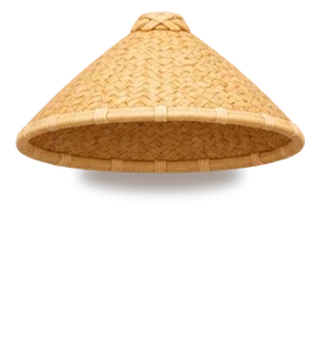
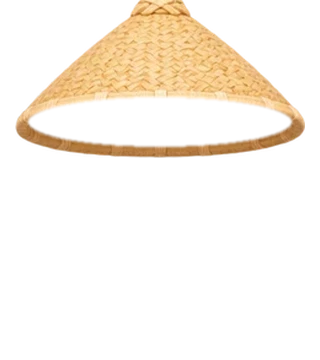
삿갓: 머리가 삿갓 속에 들어가게(속은 머리 뒤, 챙 앞은 머리 앞), 한복 소매 끝에 삐져나오던 손 제거
Claude-Session: https://claude.ai/code/session_015t7mweLLBzEFYGgsGmysr6

Changed region(s): [[0.0312, 0.0, 0.9688, 0.55]]

diff --git a/js/fluffy.js b/js/fluffy.js
@@ -36,6 +36,7 @@ export function capyBody(color, face, back, own) {
 }
 // 옷: 몸에 입힌 채로 그린 그림(같은 틀)을 그대로 겹친다. 신발은 발처럼 좌우로 잘라 걸을 때 함께 움직인다
 const HAT_UP = -10;
+const HAT_IN = new Set(['h-hd-5']); // 머리가 속에 들어가는 모자: 모자 속(안쪽)은 머리 뒤에 따로 그린다
 // 한복 모자는 머리 위에 얹힌 듯 작아서, 챙 아래쪽을 기준으로 키워 머리가 모자 안에 들어가게 한다
 const HDHAT_Y = Y + 190 * S, HDHAT = { 'h-hd-1': 1.0, 'h-hd-2': 1.08, 'h-hd-6': 1.08, 'h-hd-5': 1.05, 'h-hd-7': 1.05, 'h-hd-8': 1.1, 'h-hd-18': 1, 'h-hd-19': 1.05, 'h-hd-20': 1, 'h-hd-22': 1.1, 'h-hd-23': 1.1, 'h-hd-25': 1.05, 'h-hd-27': 1.05, 'h-hd-29': 1.05, 'h-hd-31': 1.05 }; /* 챙이 넓거나 높은 모자는 덜 키운다 */ // 모자는 마네킹보다 머리가 낮게 그려져 있어 조금 올려 씌운다(눈을 가리지 않게)
 const wimg = (id, own, back) => img((back ? 'wb/' : 'w/') + id + '.webp' + (id === 'h-hd-1' ? '?v=3' : ''), own);
@@ -51,14 +52,14 @@ const PAW_K = 0.5, PAW_W = 46 * S, PAW_H = 25 * S, PAW_Y = Y + 331 * S;
 // 손 하나(발 그림을 줄여 쓴다): 물건을 들 때처럼 손만 따로 그릴 때
 export function capyPaw(o, cx, cy, right, k = PAW_K) { const f = capyFile(o.color, o.face, false), px = X + (right ? 158 : 116) * S;
   return `<g transform="translate(${(cx - PAW_W * k / 2).toFixed(2)} ${(cy - PAW_H * k / 2).toFixed(2)}) scale(${k}) translate(${(-px).toFixed(2)} ${(-PAW_Y).toFixed(2)})">${crop(f, o.own, px, PAW_Y, PAW_W, PAW_H)}</g>`; }
-function hands(top, o, own, back) { const c = top && CUFF[top.includes('-hd-') ? 'jeogori' : top.slice(2, top.lastIndexOf('-'))]; /* 핫똑 한복 저고리도 소매 끝에 손을 그린다 */ if (!c) return ''; const f = capyFile(o.color, o.face, back);
+function hands(top, o, own, back) { const c = top && !top.includes('-hd-') && CUFF[top.slice(2, top.lastIndexOf('-'))]; /* 핫똑 한복은 소매 모양이 제각각이라 손을 따로 그리지 않는다(삐져나와 보임) */ if (!c) return ''; const f = capyFile(o.color, o.face, back);
   return [[X + 116 * S, c[0]], [X + 158 * S, c[1]]].map(([px, cx]) => `<g transform="translate(${(cx - PAW_W * PAW_K / 2).toFixed(2)} ${(c[2] - PAW_H * PAW_K * 0.3).toFixed(2)}) scale(${PAW_K}) translate(${(-px).toFixed(2)} ${(-PAW_Y).toFixed(2)})">${crop(f, own, px, PAW_Y, PAW_W, PAW_H)}</g>`).join(''); }
 export function capyWear(o, own, back) {
   const ok = (id, ch) => (typeof id === 'string' && id[0] === ch ? id : '');
   const top = ok(o.top, 't'), bot = ok(o.bottom, 'b'), hat = ok(o.hat, 'h'), sh = ok(o.shoe, 's'), over = bot.startsWith('b-overalls');
   const f = sh ? (back ? 'wb/' : 'w/') + sh + '.webp' : '';
   return { shoe: f ? `<g class="cf-l">${fitG(FIT.s, crop(f, own, -20, FOOT - 14, 80, 54))}</g><g class="cf-r">${fitG(FIT.s, crop(f, own, 60, FOOT - 14, 80, 54))}</g>` : '',
-    lower: bot && !over ? worn(bot, own, back) : '', upper: hands(top, o, own, back) + (top ? worn(top, own, back) : '') + (over ? worn(bot, own, back) : ''), get body() { return hands(top, o, own, back) + this.lower + (top ? worn(top, own, back) : '') + (over ? worn(bot, own, back) : ''); }, hat: hat ? (hat.includes('-hd-') ? worn(hat, own, back) /* 핫똑 한복 모자는 머리에 쓴 자리 그대로 그린 그림이라 옮기지 않는다 */ : `<g transform="translate(0 ${HAT_UP})">${worn(hat, own, back)}</g>`) : '' };
+    lower: bot && !over ? worn(bot, own, back) : '', upper: hands(top, o, own, back) + (top ? worn(top, own, back) : '') + (over ? worn(bot, own, back) : ''), get body() { return hands(top, o, own, back) + this.lower + (top ? worn(top, own, back) : '') + (over ? worn(bot, own, back) : ''); }, hatIn: HAT_IN.has(hat) && !back ? wimg(hat + '-in', own, back) : '', hat: hat ? (hat.includes('-hd-') ? worn(hat, own, back) /* 핫똑 한복 모자는 머리에 쓴 자리 그대로 그린 그림이라 옮기지 않는다 */ : `<g transform="translate(0 ${HAT_UP})">${worn(hat, own, back)}</g>`) : '' };
 }
 const MOOD = new Set(['happy', 'love', 'sad', 'cry', 'wow', 'smug', 'think', 'shy', 'angry']);
 export const animalImg = (i, mood, own) => img(`a${i}-${mood === 'mad' ? 'angry' : MOOD.has(mood) ? mood : 'base'}.webp`, own);

diff --git a/js/capy.js b/js/capy.js
@@ -100,7 +100,7 @@ export function capy(o = {}) {
     gem += [[4, 62, 0], [116, 50, .6], [10, 126, 1.1], [112, 120, 1.6], [60, -34, .3], [-10, 22, .9], [130, 92, 1.3], [30, -24, .5]].map(([x, y, d]) => `<path d="M${x} ${y - 10} l3 7 7 3 -7 3 -3 7 -3 -7 -7 -3 7 -3z" fill="#FFFDF0" stroke="#F0C24A" stroke-width="1"><animate attributeName="opacity" values="0.15;1;0.15" dur="1.6s" begin="${d}s" repeatCount="indefinite"/></path>`).join(''); }
   const flR = fl && o.rare && o.rare.i != null && !back ? capyRare((o.rare.list || [o.rare.i]).slice(0, 6).filter(i => !hdCovers(i, o)), o.own, o) : { over: '', shoe: '', back: '' };
   const hdS = sl => { const i = o.hdw && o.hdw[sl]; if (i == null || o.head) return ''; const [cx, w, yb] = HD_SLOT[sl], hh = sl === 'chest' ? w * 3.8 : w; return `<image href="img/hd/y${i}.webp" x="${cx - w / 2}" y="${yb - hh}" width="${w}" height="${hh}" preserveAspectRatio="xMidYMax meet"/>`; } /* chest: 송이의 노리개처럼 가슴에 다는 것(세로로 긴 그림) */, hdB = (back ? '' : hdS('back')) + (o.hdw && o.hdw.chest === 'nori' && !o.head ? '<defs><radialGradient id="noriG"><stop offset="0" stop-color="#C9A2FF" stop-opacity=".95"/><stop offset=".55" stop-color="#A070F0" stop-opacity=".5"/><stop offset="1" stop-color="#A070F0" stop-opacity="0"/></radialGradient></defs><ellipse cx="60" cy="74" rx="60" ry="64" fill="url(#noriG)"><animate attributeName="opacity" values=".45;1;.45" dur="2.6s" repeatCount="indefinite"/></ellipse>' : ''), /* 송이의 노리개를 차면 은은한 보랏빛 */ hdF = (back ? ['back'] : ['neck', 'chest', 'waist', 'lhand', 'rhand']).map(hdS).join('') + hdS('head'); // 핫똑랜드 상징품(자리마다 하나)
-  if (fl) return `<svg xmlns="http://www.w3.org/2000/svg" viewBox="0 -22 120 158"${glow || String(o.hat || '').includes('-hd-') ? ' style="overflow:visible"' : ''}>${glow}${hdB}${o.noShadow ? '' : SHADOW}${flR.back}${fl.feet}${fl.body}${flR.shoe || flW.shoe}${flW.body}${flTop}${flR.over}${flH.shoe}${flH.body}${capyEye(o.eye, o.own, back)}${flH.hat}${pin}${dollB}${dipB}${gem}${hdF}</svg>`;
+  if (fl) return `<svg xmlns="http://www.w3.org/2000/svg" viewBox="0 -22 120 158"${glow || String(o.hat || '').includes('-hd-') ? ' style="overflow:visible"' : ''}>${glow}${hdB}${o.noShadow ? '' : SHADOW}${flR.back}${flW.hatIn || ''}${flH.hatIn || ''}${fl.feet}${fl.body}${flR.shoe || flW.shoe}${flW.body}${flTop}${flR.over}${flH.shoe}${flH.body}${capyEye(o.eye, o.own, back)}${flH.hat}${pin}${dollB}${dipB}${gem}${hdF}</svg>`;
   return `<svg xmlns="http://www.w3.org/2000/svg" viewBox="0 -22 120 158"${glow ? ' style="overflow:visible"' : ''}>${glow}${wearB}${body}${wearM}${shoeToe}${head}${pin}${dollB}${dipB}${gem}${hdF}</svg>`;
 }
 
